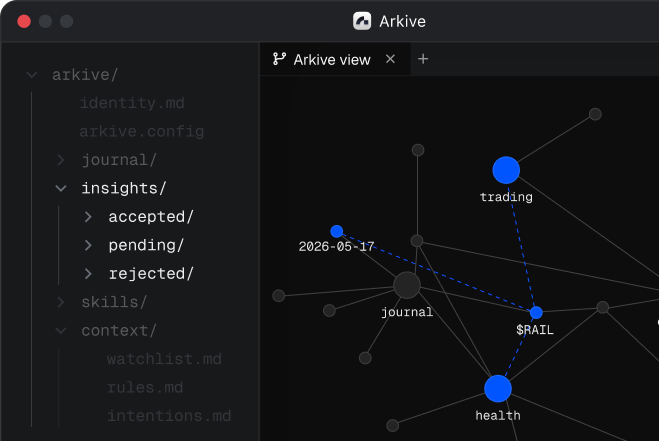
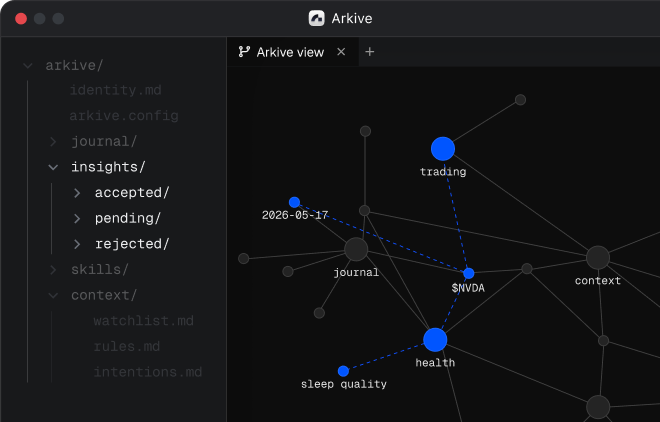
fix

diff --git a/components/sections/arkives/journal.tsx b/components/sections/arkives/journal.tsx
@@ -121,7 +121,7 @@ export default function ArkivesJournal() {
           </p>
         </div>
 
-        <div className="relative md:h-137.5 h-125 rounded-[24px] overflow-clip bg-[#F9F9FB]">
+        <div className="relative md:h-137.5 h-108 rounded-[24px] overflow-clip bg-[#F9F9FB]">
           {/* ── Hidden preload images (Next.js prefetch) ── */}
           <div
             aria-hidden="true"
@@ -197,7 +197,7 @@ export default function ArkivesJournal() {
           </div>
 
           {/* Mobile images — contained inside block */}
-          <div className="block md:hidden absolute left-[28px] right-0 bottom-0 top-[140px]">
+          <div className="block md:hidden absolute left-[28px] right-0 bottom-0 top-[100px]">
             <AnimatePresence mode="wait" custom={direction}>
               <motion.div
                 key={activeIndex}
